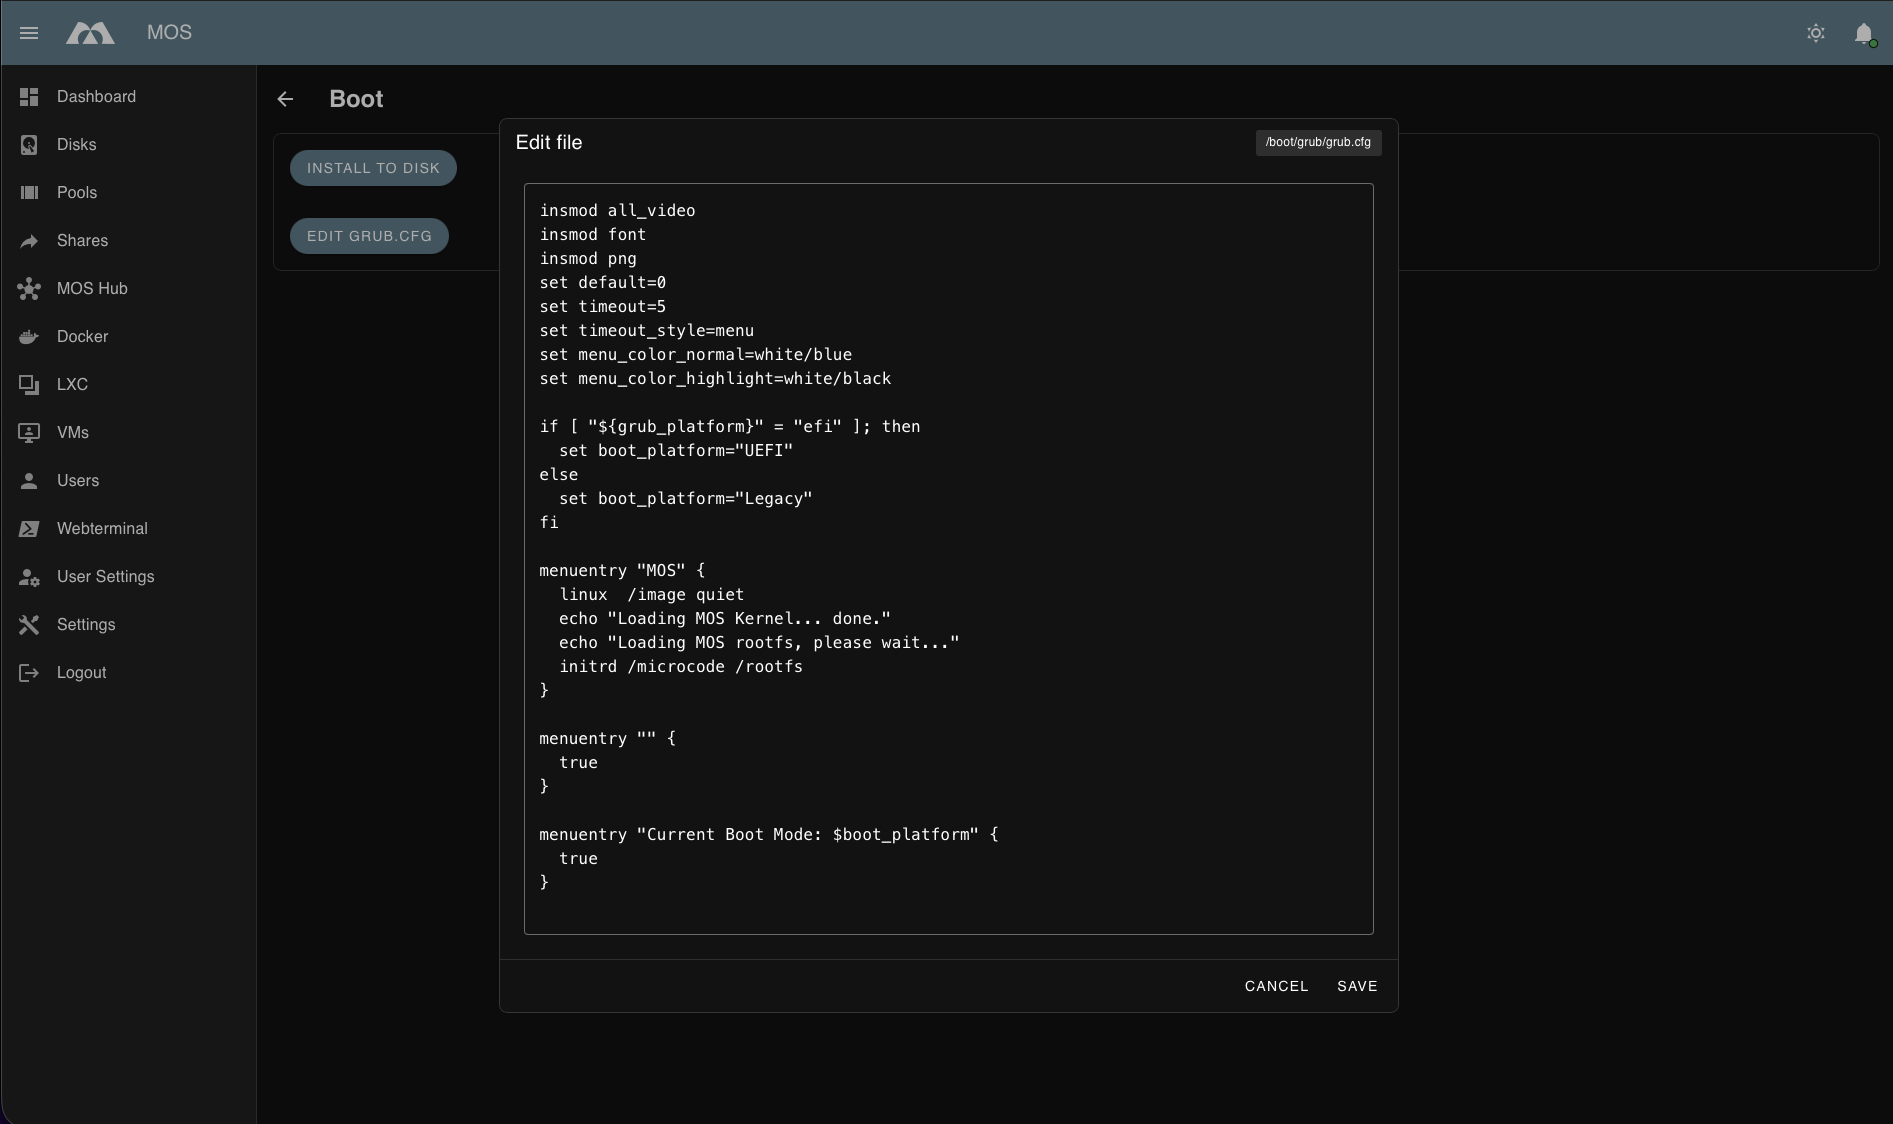
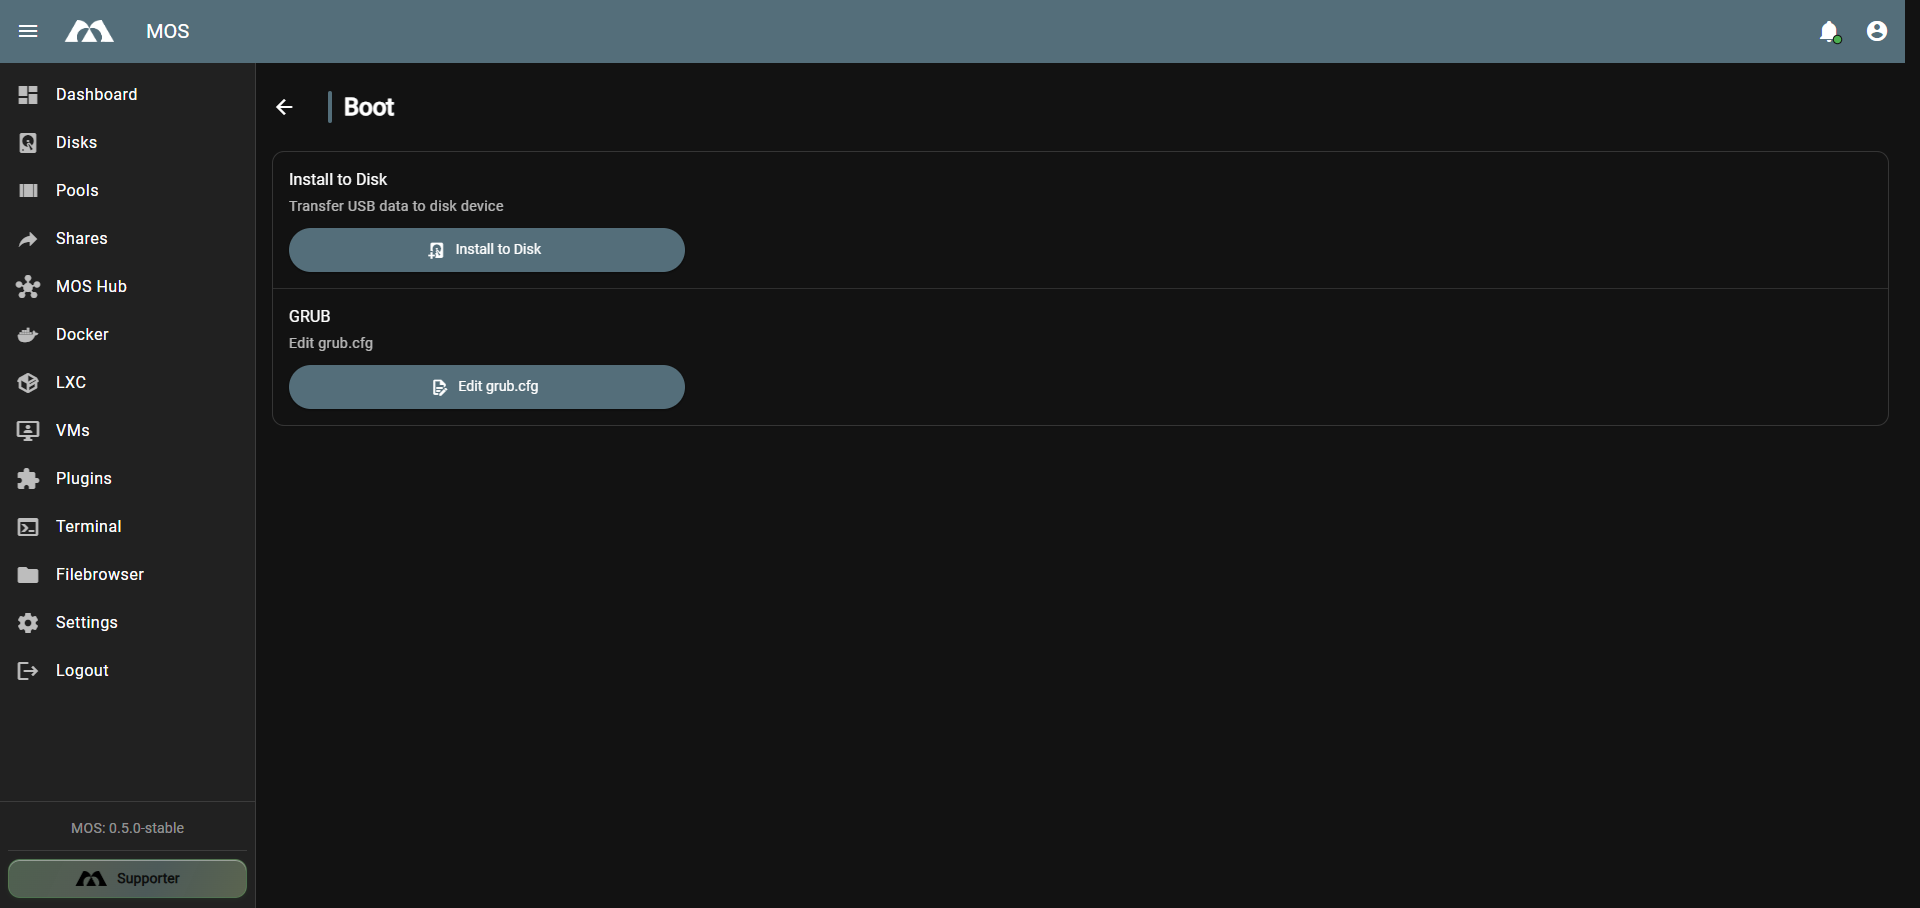
Edit Boot Section

diff --git a/docs/Settings/Boot.md b/docs/Settings/Boot.md
@@ -25,6 +25,8 @@ Example:
 
 Installs the system bootloader to a selected disk which will basically copies the contents from your `/boot` folder to the new drive.
 
+![Install to Disk](/img/system/Install_to_Disk.png)
+
 :::warning
 After the installation finished, please shutdown or reboot your server immediately since all further changes after Install to disk **will not** be saved.
 :::  
@@ -87,6 +89,18 @@ If Extra Partition is enabled:
 
 ---
 
+#### ↪️ Restore from file (MOS Backup)
+
+Allows you to restore the boot configuration from a MOS backup file.
+
+:::note
+The [MOS Backup Plugin](https://mos-official.net/apps.html?search=MOS+Backup+ich777) must be installed and configured to use this feature.
+
+:::
+
+
+---
+
 ### Edit `grub.cfg`
 
 Opens an editor for the GRUB configuration file:
@@ -97,6 +111,8 @@ Opens an editor for the GRUB configuration file:
 - Modify boot parameters
 - Adjust kernel options
 - Change boot behavior
+
+![Edit grub.cfg](/img/system/Edit_grub_cfg.png)
 
 :::danger
 This file is critical for system startup